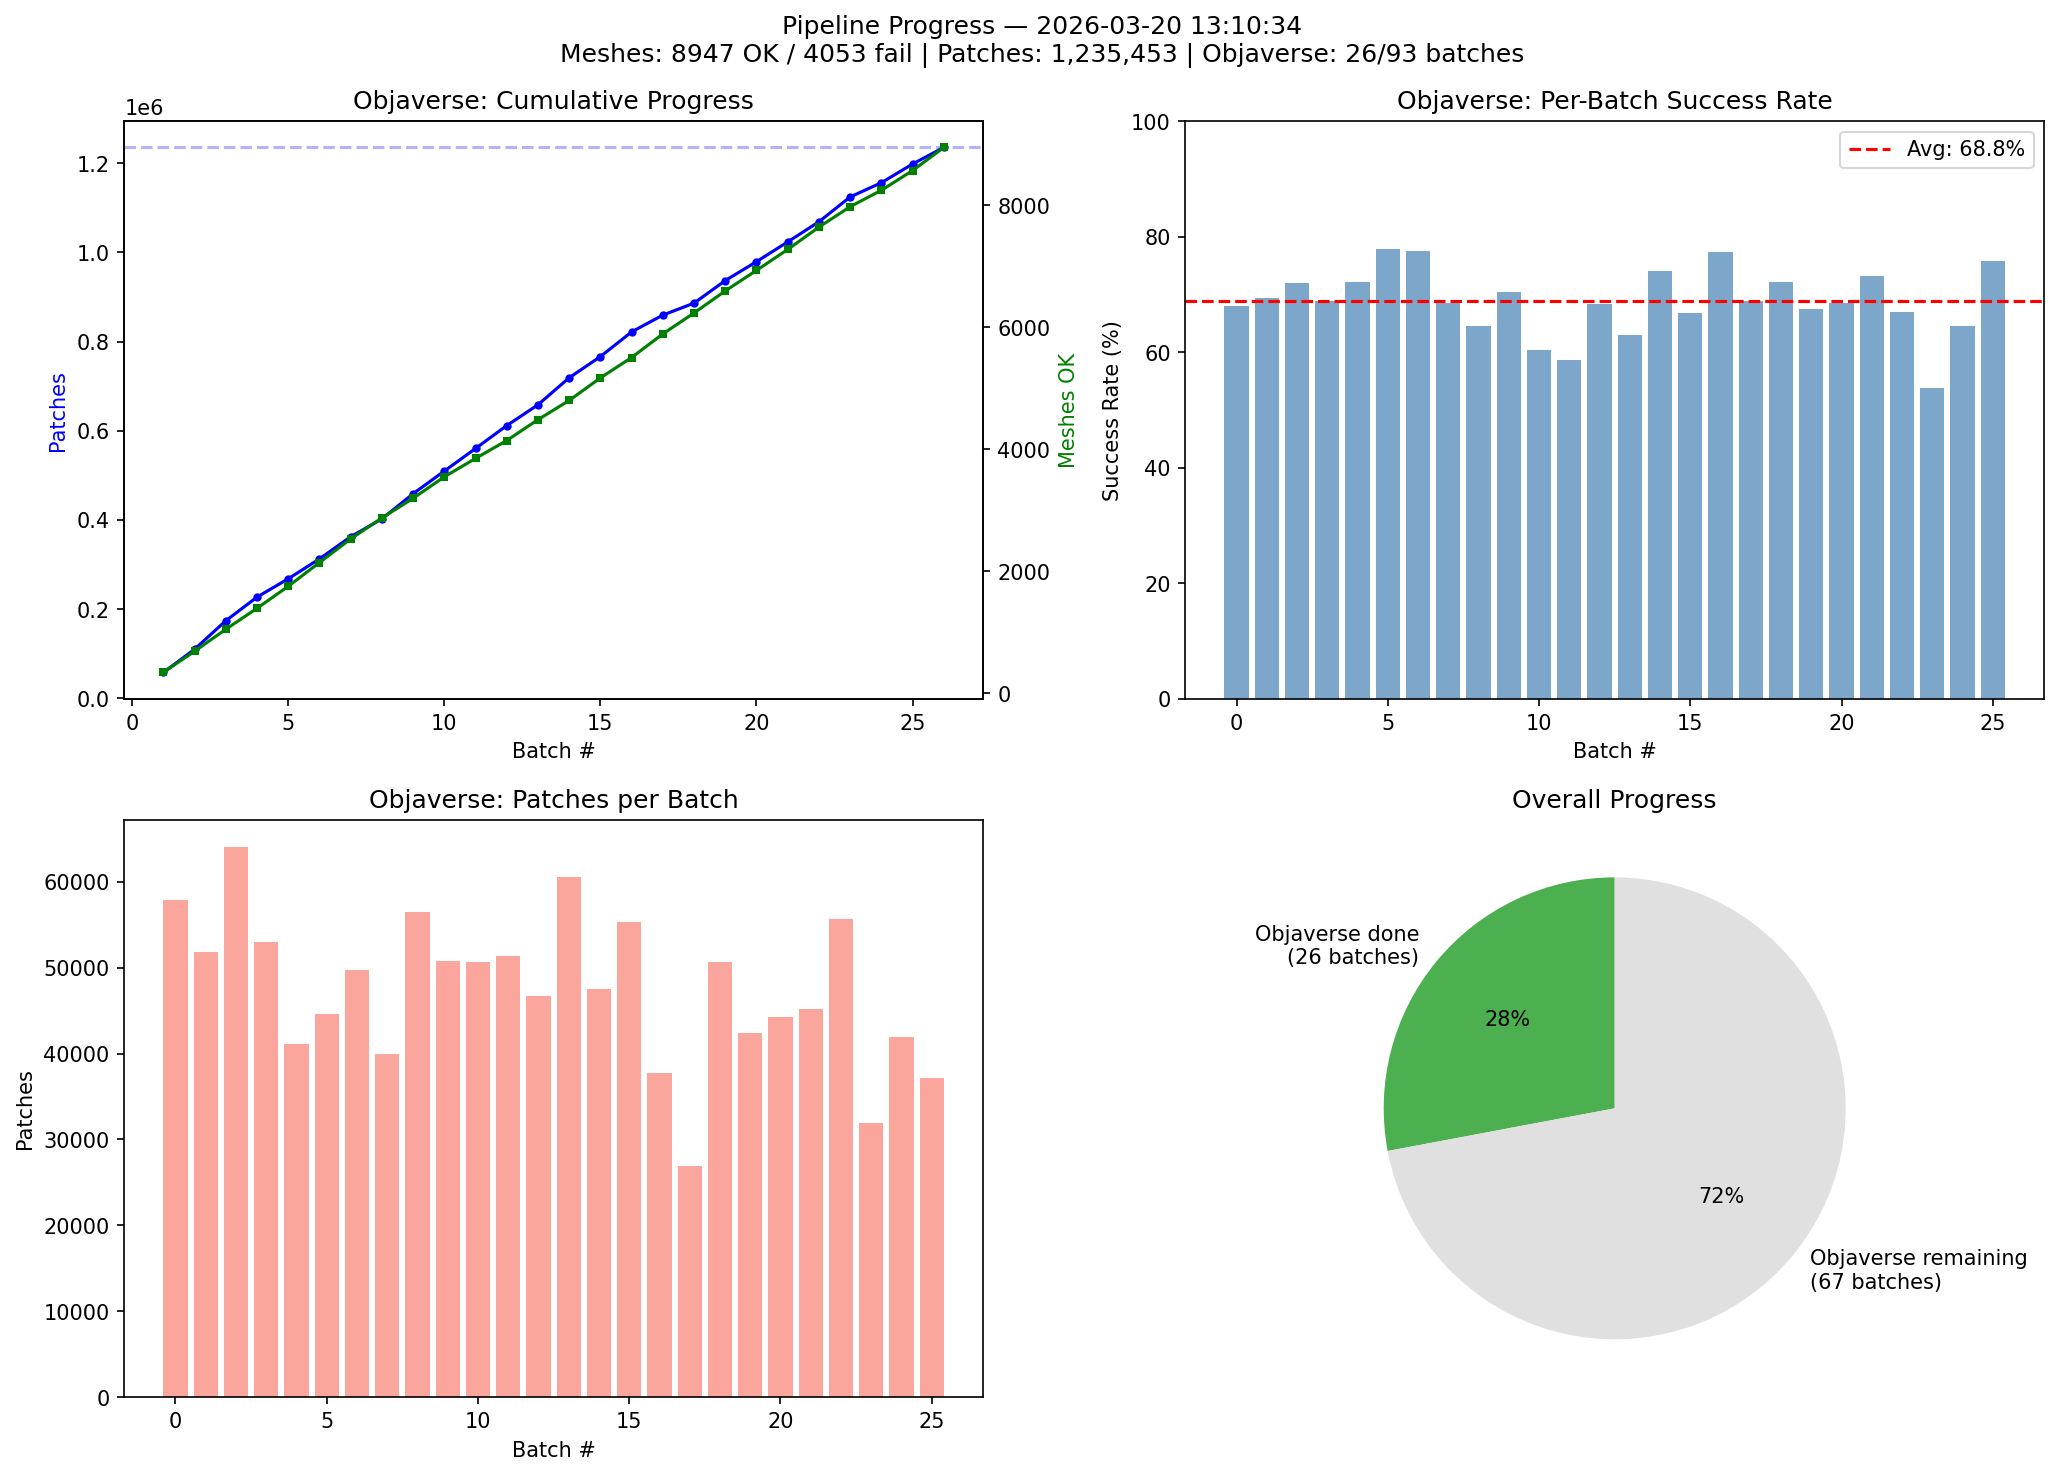
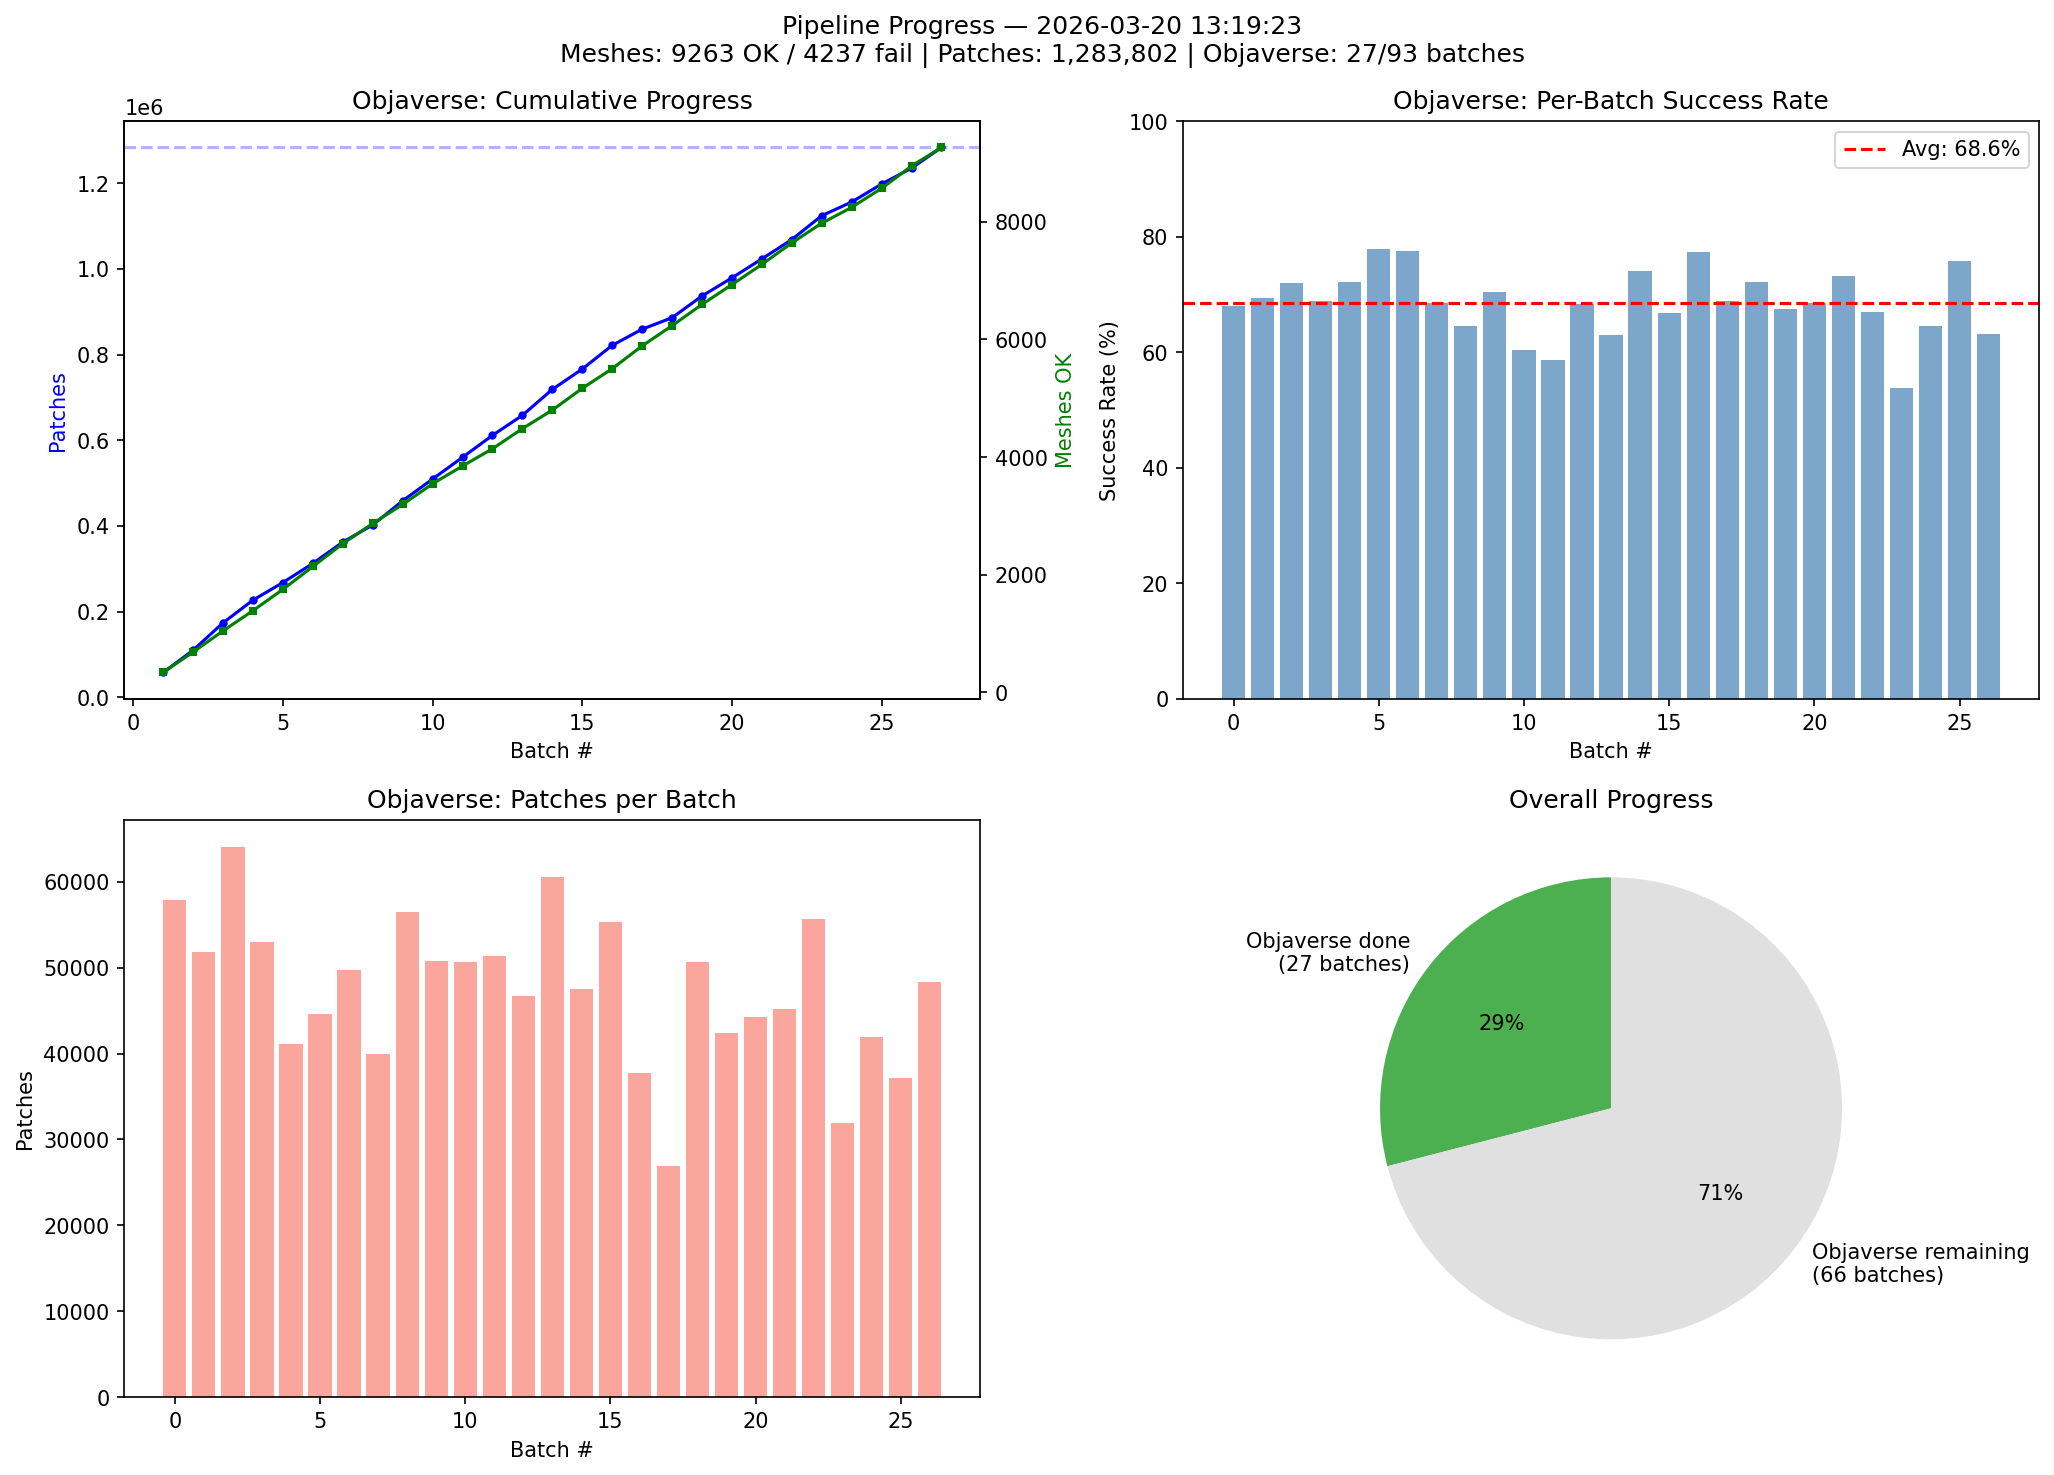
chore: update pipeline monitoring (batch_027 completed)
- Objaverse: 27/93 batches, 9263 OK / 4237 fail
- Patches: 1,283,802

diff --git a/results/dataset-pipeline/REPORT.md b/results/dataset-pipeline/REPORT.md
@@ -1,17 +1,17 @@
 # Dataset Pipeline Progress Report
 
-**Generated:** 2026-03-20 13:10:34
+**Generated:** 2026-03-20 13:19:23
 
 ## Overall
-- Total meshes processed: 8947 OK / 4053 fail
-- Total patches: 1,235,453
+- Total meshes processed: 9263 OK / 4237 fail
+- Total patches: 1,283,802
 
 ## Objaverse-LVIS (Phase 1)
-- Batches: 26 / 93 completed
-- Meshes: 8947 OK / 4053 fail
-- Success rate: 68.8%
-- Patches: 1,235,453
-- Avg patches/mesh: 138.1
+- Batches: 27 / 93 completed
+- Meshes: 9263 OK / 4237 fail
+- Success rate: 68.6%
+- Patches: 1,283,802
+- Avg patches/mesh: 138.6
 
 ## ShapeNet (Phase 2)
 - Batches: 0 completed
